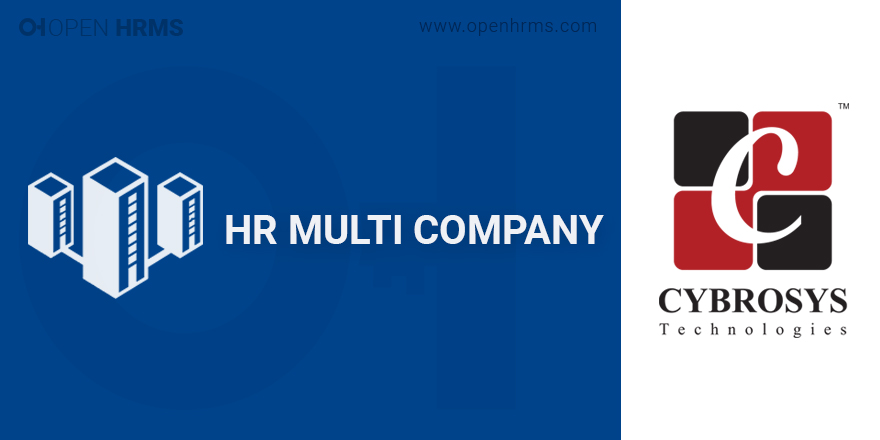
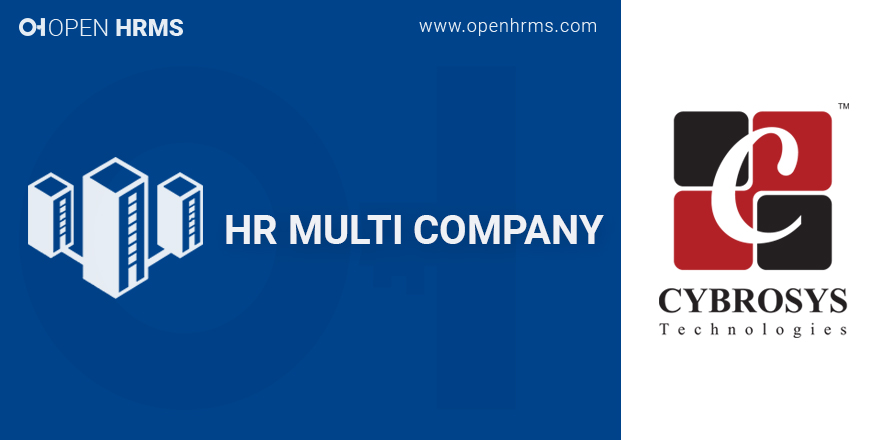
[UDT] Index Updated

Changed region(s): [[0.0, 0.0295, 0.2148, 0.0886], [0.4602, 0.0295, 0.675, 0.0886]]

diff --git a/hr_multi_company/static/description/index.html b/hr_multi_company/static/description/index.html
@@ -1,18 +1,17 @@
 <section class="oe_container">
     <div class="oe_row">
-        <h2 class="oe_slogan">OpenHRMS</h2>
+        <h2 class="oe_slogan"><a href="https://www.openhrms.com">Open HRMS</a></h2>
         <h3 class="oe_slogan">Most advanced open source HR management software</h3>
     </div>
 </section>
 
-<section class="oe_container">
+<section class="oe_container oe_dark">
     <div class="oe_row oe_spaced oe_mt32">
         <div class="oe_span">
             <div class="oe_demo oe_picture oe_screenshot">
                 <a href="https://www.openhrms.com/#request-demo">
                     <img src="HRMS-BUTTON.png">
                 </a>
-                <div class="oe_demo_footer oe_centeralign">Online Demo</div>
             </div>
         </div>
     </div>
@@ -20,8 +19,8 @@
 
 <section class="oe_container">
     <div class="oe_row oe_spaced">
-        <h2 class="oe_slogan">HR Multi Company</h2>
-        <h3 class="oe_slogan">Manages Multi Company In HR Processes</h3>
+        <h2 class="oe_slogan">Open HRMS Multi Company</h2>
+        <h3 class="oe_slogan">Managing Multi Company In HR Processes</h3>
         <h4 class="oe_slogan"><a href="https://www.cybrosys.com">Cybrosys Technologies</a> </h4>
     </div>
     <div class="oe_row oe_spaced" style="padding-left:65px;">
@@ -37,9 +36,32 @@
         <div class="oe_picture">
             <h3 class="oe_slogan">Overview</h3>
             <p class="oe_mt32 text-justify" style="text-align: center;">
-                This module enables hr multi company, hence hr manager can easily hande
-                multi company process separately.
+                This module enables hr multi company, hence hr manager can easily handle
+                multi company process separately. We can activate multi company feature in general settings as usual.
+                This will automatically add company field in every hr related records.
             </p>
+        </div>
+    </div>
+</section>
+
+<section class="oe_container">
+    <div class="oe_row oe_spaced">
+        <h4 class="oe_slogan">Multi Company In Leaves</h4>
+        <div class="oe_span12">
+            <div class="oe_row_img oe_centered">
+                <img class="oe_picture oe_screenshot" src="multi_company.png">
+            </div>
+        </div>
+    </div>
+</section>
+
+<section class="oe_container oe_dark">
+    <div class="oe_row oe_spaced">
+        <h4 class="oe_slogan">Multi Company In Attendance</h4>
+        <div class="oe_span12">
+            <div class="oe_row_img oe_centered">
+                <img class="oe_picture oe_screenshot" src="oh_attendance.png">
+            </div>
         </div>
     </div>
 </section>

diff --git a/oh_employee_documents_expiry/static/description/index.html b/oh_employee_documents_expiry/static/description/index.html
@@ -1,7 +1,9 @@
-<section class="oe_container">
+<section class="oe_container bg-gray-lighter" xmlns="http://www.w3.org/1999/html">
     <div class="oe_row">
-        <h2 class="oe_slogan">OpenHRMS</h2>
-        <h3 class="oe_slogan">Most advanced open source HR management software</h3>
+        <div class="oe_span">
+            <h2 class="oe_slogan">Open HRMS</h2>
+            <h3 class="oe_slogan">Most advanced open source HR management software</h3>
+        </div>
     </div>
 </section>
 
@@ -12,7 +14,6 @@
                 <a href="https://www.openhrms.com/#request-demo">
                     <img src="HRMS-BUTTON.png">
                 </a>
-                <div class="oe_demo_footer oe_centeralign">Online Demo</div>
             </div>
         </div>
     </div>

diff --git a/hr_multi_company/__init__.py b/hr_multi_company/__init__.py
@@ -1,6 +1,6 @@
 # -*- coding: utf-8 -*-
 ###################################################################################
-#    A part of OpenHRMS Project <https://www.openhrms.com>
+#    A part of Open HRMS Project <https://www.openhrms.com>
 #
 #    Cybrosys Technologies Pvt. Ltd.
 #    Copyright (C) 2018-TODAY Cybrosys Technologies (<https://www.cybrosys.com>).
@@ -21,4 +21,5 @@
 #
 ###################################################################################
 from . import models
+
 

diff --git a/hr_multi_company/models/__init__.py b/hr_multi_company/models/__init__.py
@@ -1,6 +1,6 @@
 # -*- coding: utf-8 -*-
 ###################################################################################
-#    A part of OpenHRMS Project <https://www.openhrms.com>
+#    A part of Open HRMS Project <https://www.openhrms.com>
 #
 #    Cybrosys Technologies Pvt. Ltd.
 #    Copyright (C) 2018-TODAY Cybrosys Technologies (<https://www.cybrosys.com>).

diff --git a/hr_multi_company/models/hr_multi_company.py b/hr_multi_company/models/hr_multi_company.py
@@ -1,6 +1,6 @@
 # -*- coding: utf-8 -*-
 ###################################################################################
-#    A part of OpenHRMS Project <https://www.openhrms.com>
+#    A part of Open HRMS Project <https://www.openhrms.com>
 #
 #    Cybrosys Technologies Pvt. Ltd.
 #    Copyright (C) 2018-TODAY Cybrosys Technologies (<https://www.cybrosys.com>).

diff --git a/hr_multi_company/__manifest__.py b/hr_multi_company/__manifest__.py
@@ -22,7 +22,7 @@
 ###################################################################################
 {
     'name': 'Open HRMS Multi-Company',
-    'version': '10.0.1.0.0',
+    'version': '10.0.1.1.0',
     'summary': """Enables Multi-Company""",
     'description': 'This module enables multi company features',
     'category': 'Generic Modules/Human Resources',

diff --git a/hr_multi_company/doc/RELEASE_NOTES.md b/hr_multi_company/doc/RELEASE_NOTES.md
@@ -1,0 +1,11 @@
+## Module <hr_multi_company>
+
+#### 09.04.2018
+#### Version 10.0.1.1.0
+##### CHG
+- Index updated.
+
+#### 30.03.2018
+#### Version 10.0.1.0.0
+##### ADD
+- Initial commit for Open HRMS Project
